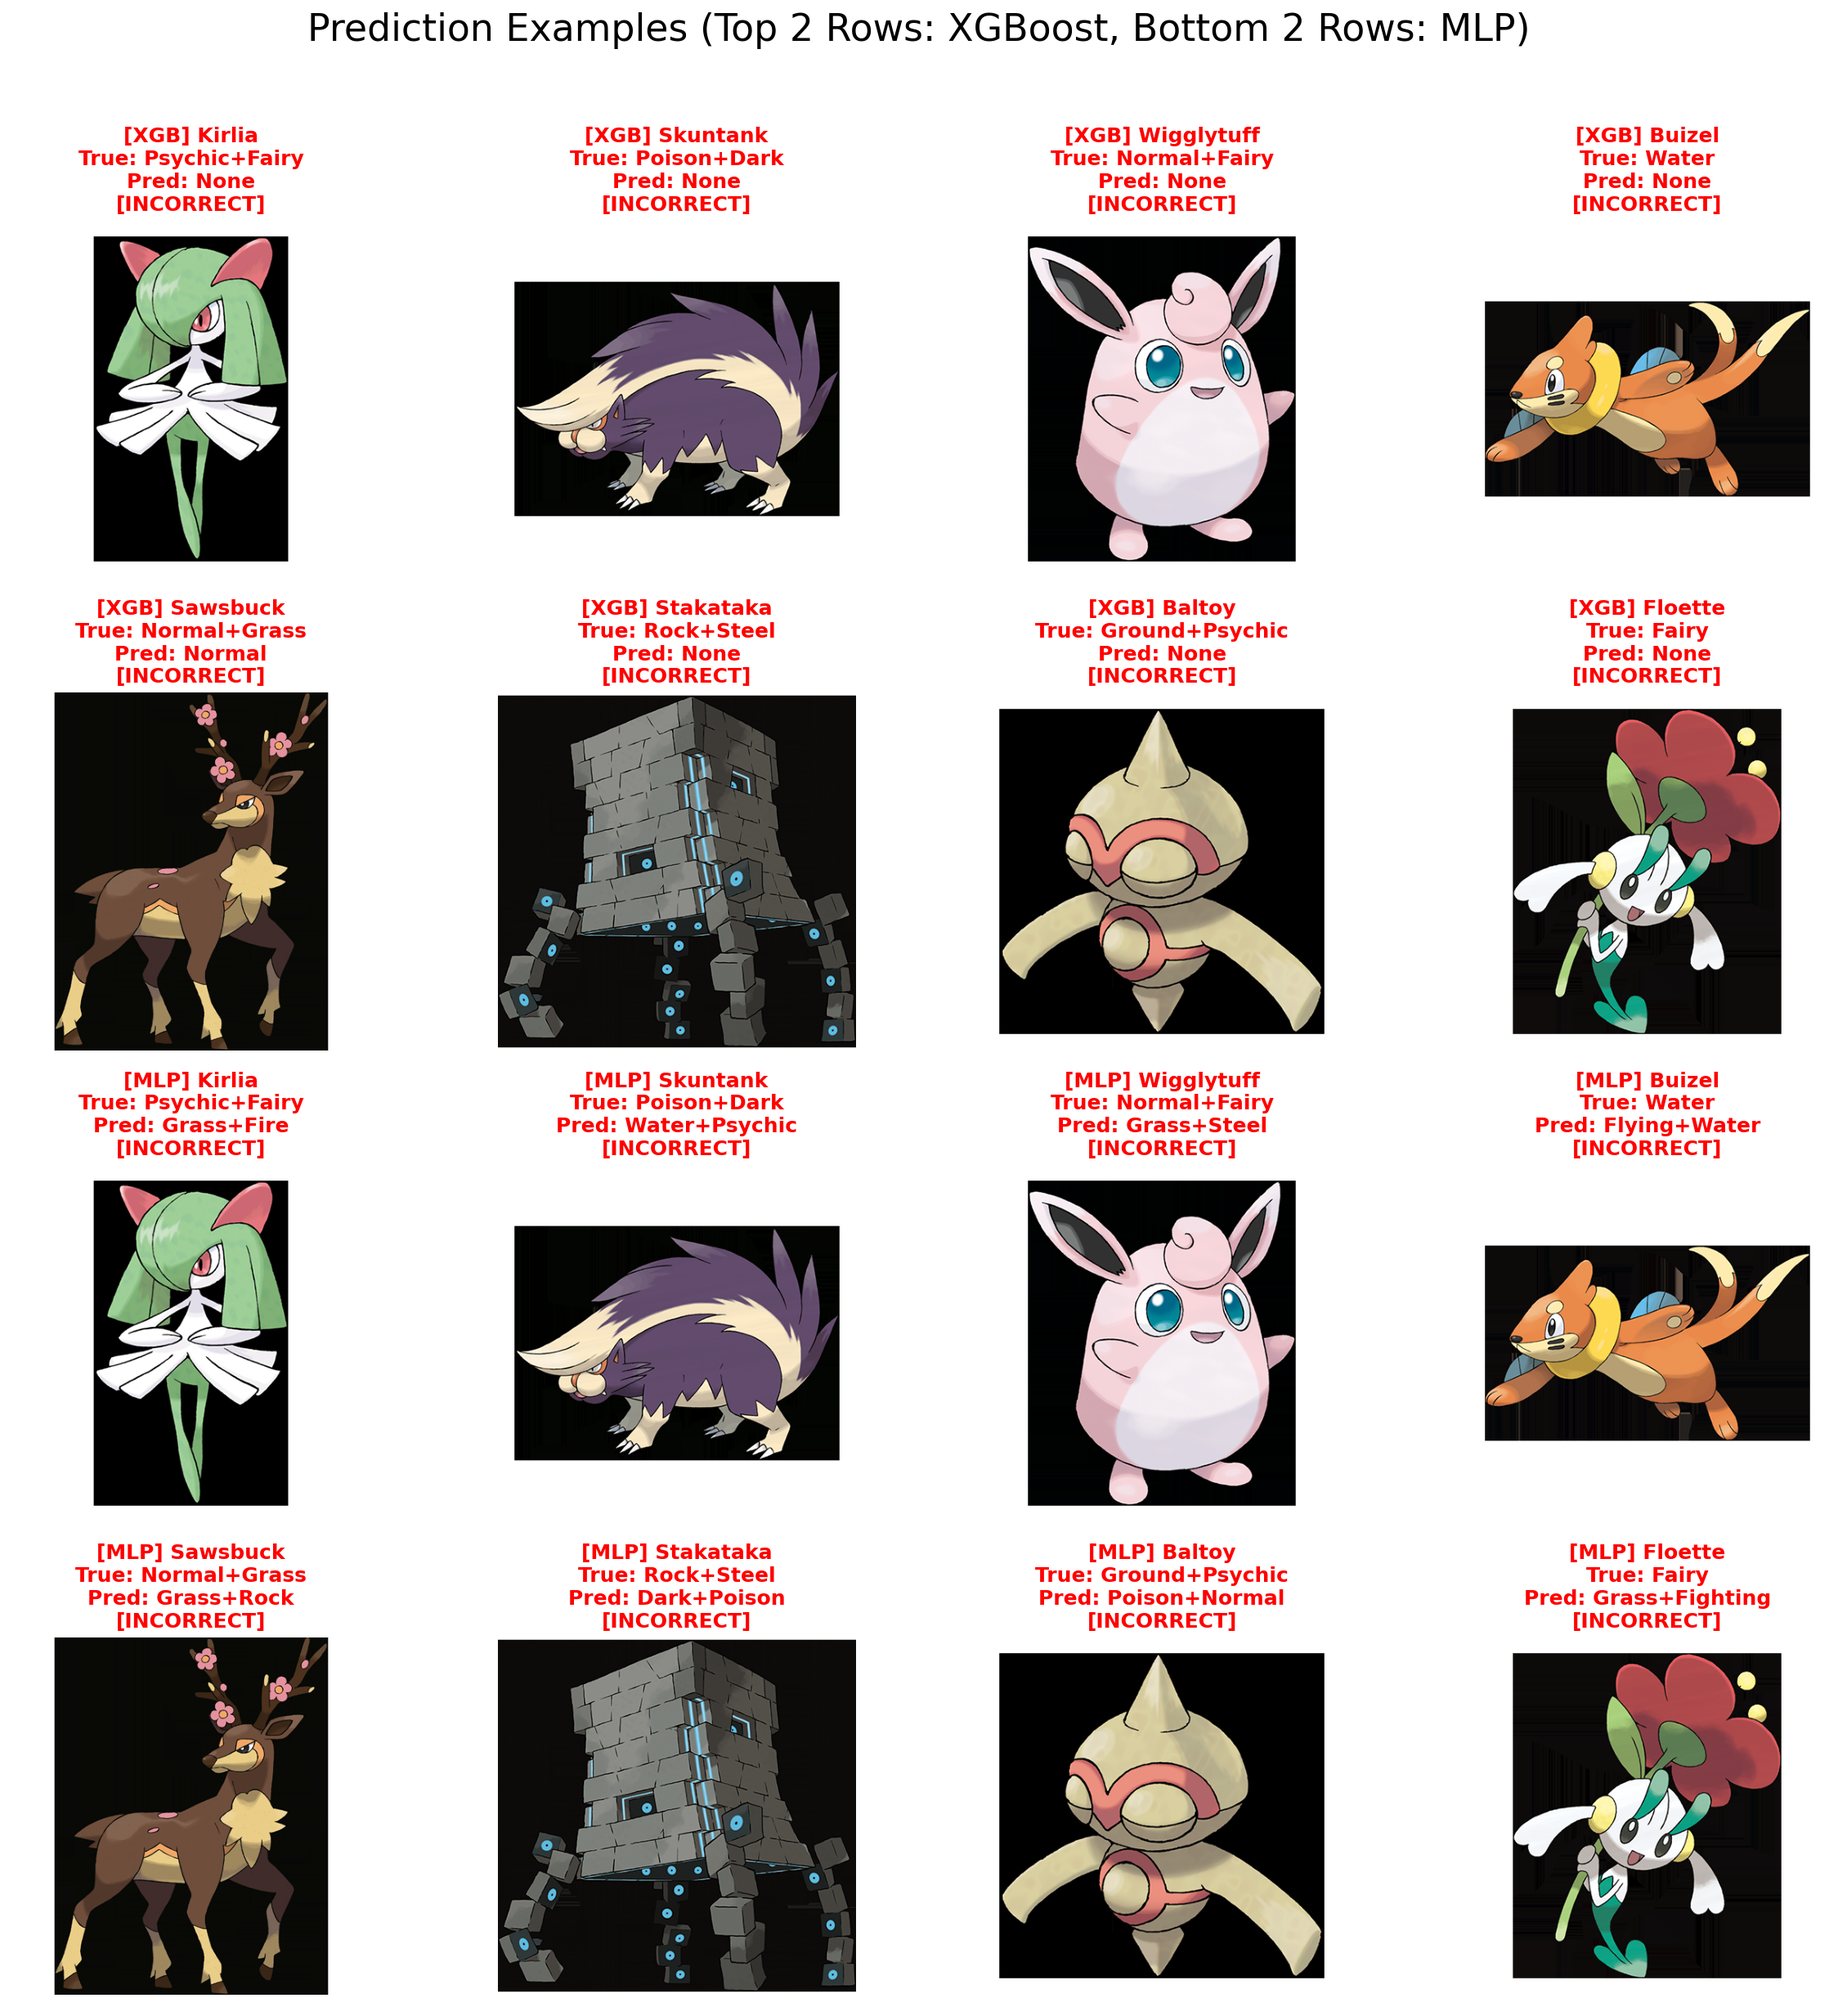
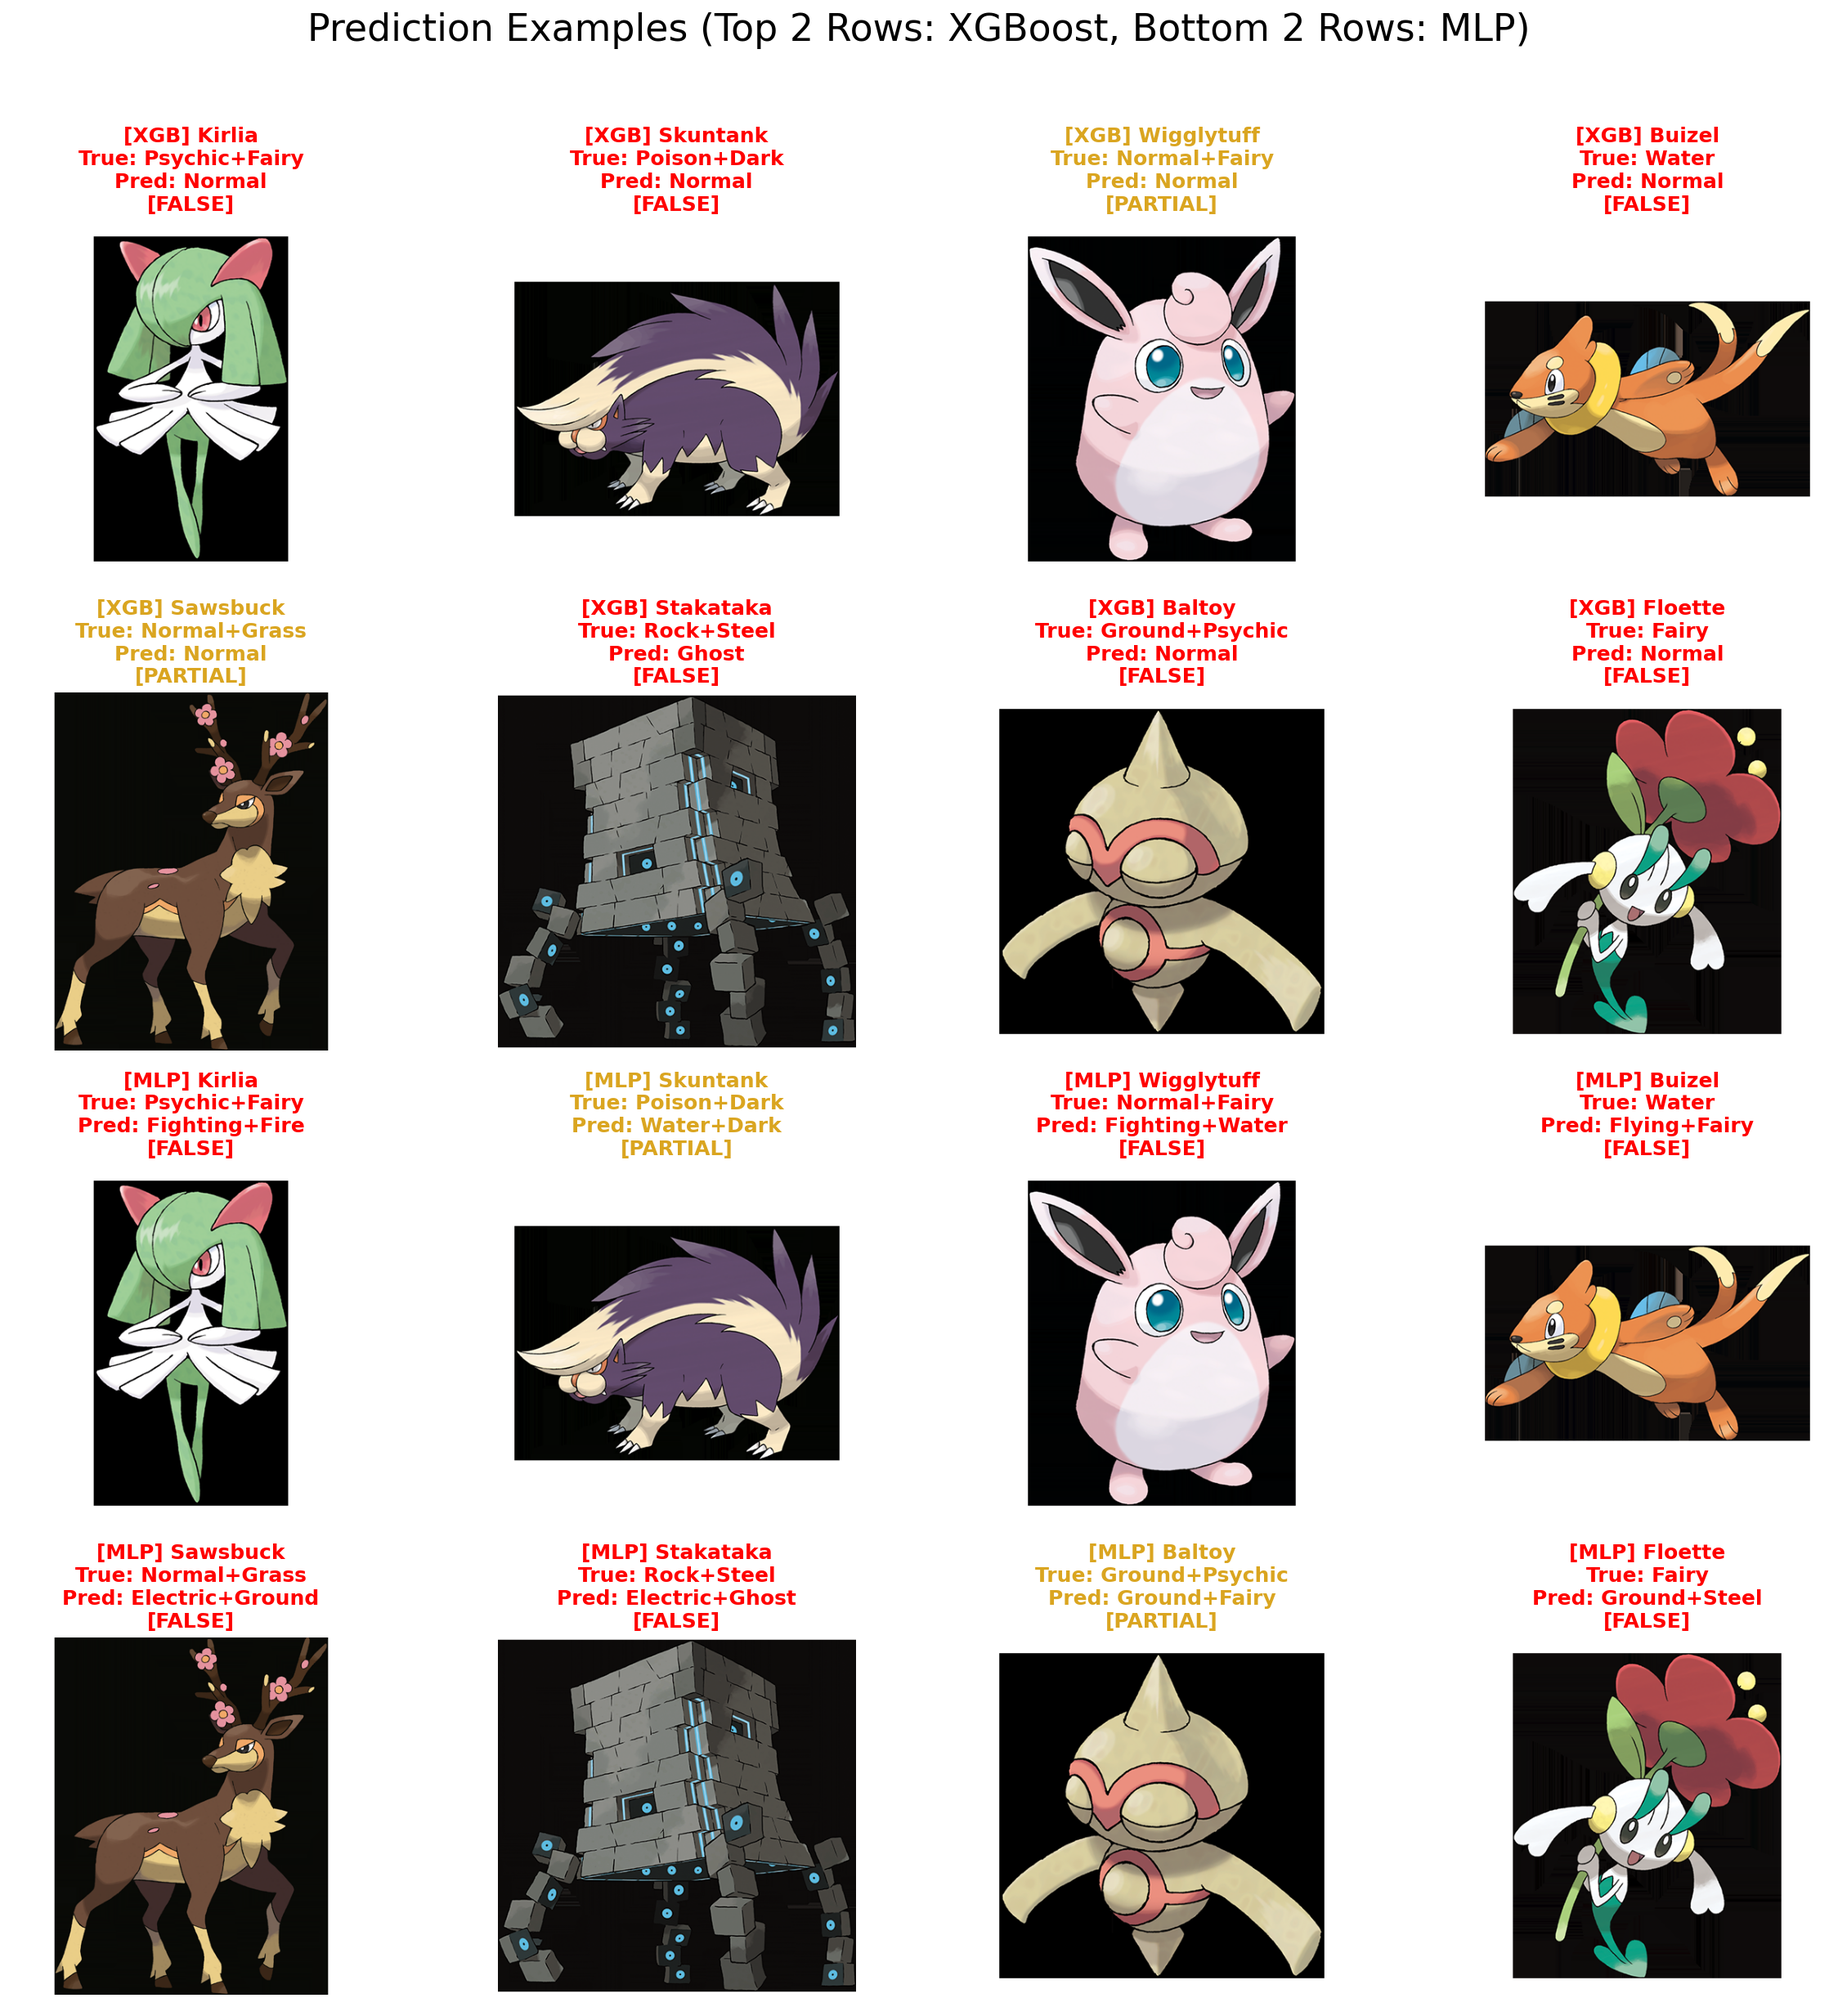
Fix XGBoost none-predictions; implement Traffic Light partial visual grading; add Partial Accuracy metrics to evaluate script and formal report

diff --git a/pokemon_predictor/evaluate.py b/pokemon_predictor/evaluate.py
@@ -23,7 +23,15 @@ def evaluate_models():
         f1_micro = f1_score(y_test, y_pred, average='micro')
         f1_macro = f1_score(y_test, y_pred, average='macro')
         
-        print(f"Accuracy (Subset): {acc:.4f}")
+        # Calculate Partial Accuracy
+        partial_matches = 0
+        for true, pred in zip(y_test, y_pred):
+            if np.sum(np.logical_and(true, pred)) > 0:
+                partial_matches += 1
+        acc_partial = partial_matches / len(y_test)
+        
+        print(f"Exact Match Accuracy: {acc:.4f}")
+        print(f"Partial Match Accuracy: {acc_partial:.4f}")
         print(f"F1 Score (Micro): {f1_micro:.4f}")
         print(f"F1 Score (Macro): {f1_macro:.4f}")
         print("\nClassification Report:")
@@ -96,10 +104,19 @@ def evaluate_models():
         
         acc_top1 = accuracy_score(y_test, y_pred_top1)
         acc_top3 = y_pred_top3_any_match / len(y_test)
+        
+        # Calculate Partial Accuracy for MLP Top-1
+        partial_matches_mlp = 0
+        for true, pred in zip(y_test, y_pred_top1):
+            if np.sum(np.logical_and(true, pred)) > 0:
+                partial_matches_mlp += 1
+        acc_partial_mlp = partial_matches_mlp / len(y_test)
+        
         f1_micro = f1_score(y_test, y_pred_top1, average='micro')
         f1_macro = f1_score(y_test, y_pred_top1, average='macro')
         
-        print(f"Top-1 Accuracy (Exact Match): {acc_top1:.4f}")
+        print(f"Top-1 Exact Match Accuracy: {acc_top1:.4f}")
+        print(f"Top-1 Partial Match Accuracy: {acc_partial_mlp:.4f}")
         print(f"Top-3 Accuracy (Any Exact Match): {acc_top3:.4f}")
         print(f"Top-1 F1 Score (Micro): {f1_micro:.4f}")
         print(f"Top-1 F1 Score (Macro): {f1_macro:.4f}")

diff --git a/pokemon_predictor/predict.py b/pokemon_predictor/predict.py
@@ -113,8 +113,19 @@ class PokemonPredictor:
 
         # Inference (RGB + Ratios)
         feat_xgb = np.concatenate([feat_kmeans, scaled_ratios])
-        pred_xgb = self.xgb_model.predict([feat_xgb])
-        labels_xgb = self.mlb.inverse_transform(pred_xgb)[0]
+        pred_probs_xgb = self.xgb_model.predict_proba([feat_xgb])
+        
+        # XGBoost predict_proba for MultiOutputClassifier returns a list of arrays (one per class)
+        # Each array has shape (n_samples, 2) where column 1 is the probability of class presence.
+        probs_xgb = np.array([p[:, 1] for p in pred_probs_xgb]).T[0]
+        
+        pred_xgb = (probs_xgb >= 0.5).astype(int)
+        
+        if np.sum(pred_xgb) == 0:
+            # Fallback to argmax if all probabilities are < 0.5
+            pred_xgb[np.argmax(probs_xgb)] = 1
+            
+        labels_xgb = self.mlb.inverse_transform(np.array([pred_xgb]))[0]
 
         # Hybrid model expects concatenated features (RGB + Hist + Ratios)
         feat_hybrid = np.concatenate([feat_kmeans, feat_hist, scaled_ratios])

diff --git a/scripts/generate_examples.py b/scripts/generate_examples.py
@@ -72,9 +72,17 @@ def generate_examples():
         true_set = set(item['true'].split('+'))
         pred_set = set(item['pred'].split('+')) if item['pred'] != "None" else set()
         
-        is_correct = (true_set == pred_set)
-        color = 'green' if is_correct else 'red'
-        status = "CORRECT" if is_correct else "INCORRECT"
+        intersection = true_set.intersection(pred_set)
+        
+        if true_set == pred_set:
+            color = 'green'
+            status = "FULL SUCCESS"
+        elif len(intersection) > 0:
+            color = 'goldenrod' # Darker yellow for true visibility on white backgrounds
+            status = "PARTIAL"
+        else:
+            color = 'red'
+            status = "FALSE"
         
         ax.set_title(f"{prefix} {item['name'].capitalize()}\nTrue: {item['true']}\nPred: {item['pred']}\n[{status}]", color=color, fontweight='bold', fontsize=12)
         ax.axis('off')

diff --git a/reports/model_performance_report.md b/reports/model_performance_report.md
@@ -20,12 +20,13 @@ Performance metrics on the Test Set (20% hold-out):
 
 | Metric | XGBoost (RGB + 5 Bio-Ratios) | MLP (Hybrid + 5 Bio-Ratios) [Top-1 Combo] |
 | :--- | :--- | :--- |
-| **Top-1 Exact Match Accuracy** | 24.85% | 0.76% |
+| **Exact Match Accuracy (Full Success)** | 24.85% | 0.61% |
+| **Partial Match Accuracy** | 45.30% | 20.30% |
 | **Top-3 Any Match Accuracy** | N/A | 2.12% |
-| **F1 Score (Micro)** | 0.5062 | 0.1358 |
-| **F1 Score (Macro)** | 0.4997 | 0.0940 |
-| **Precision (Micro)** | 0.95 | 0.12 |
-| **Recall (Micro)** | 0.35 | 0.16 |
+| **F1 Score (Micro)** | 0.5062 | 0.1186 |
+| **F1 Score (Macro)** | 0.4997 | 0.1034 |
+| **Precision (Micro)** | 0.95 | 0.10 |
+| **Recall (Micro)** | 0.35 | 0.14 |
 
 \* *For the MLP, F1, Precision, and Recall are calculated based on the single highest-scoring combination (Top-1) to remain comparable to XGBoost.*
 
